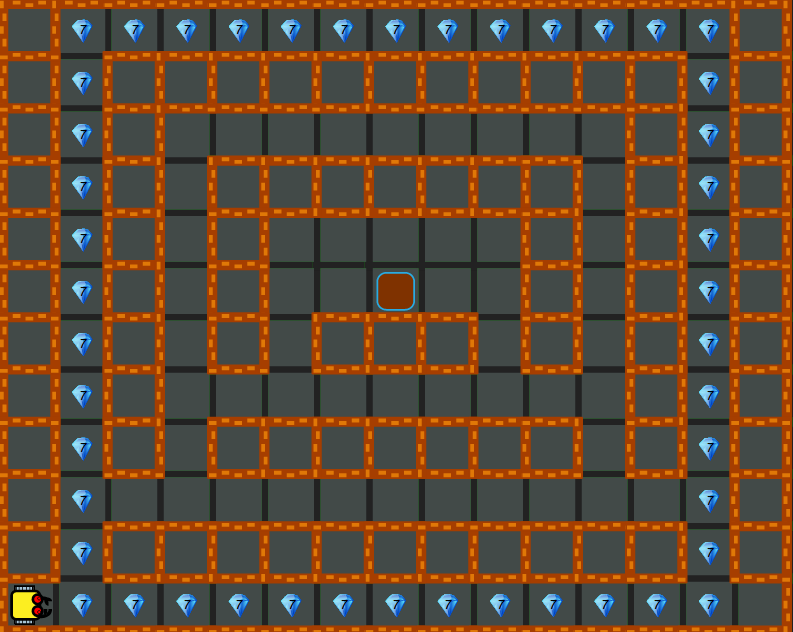
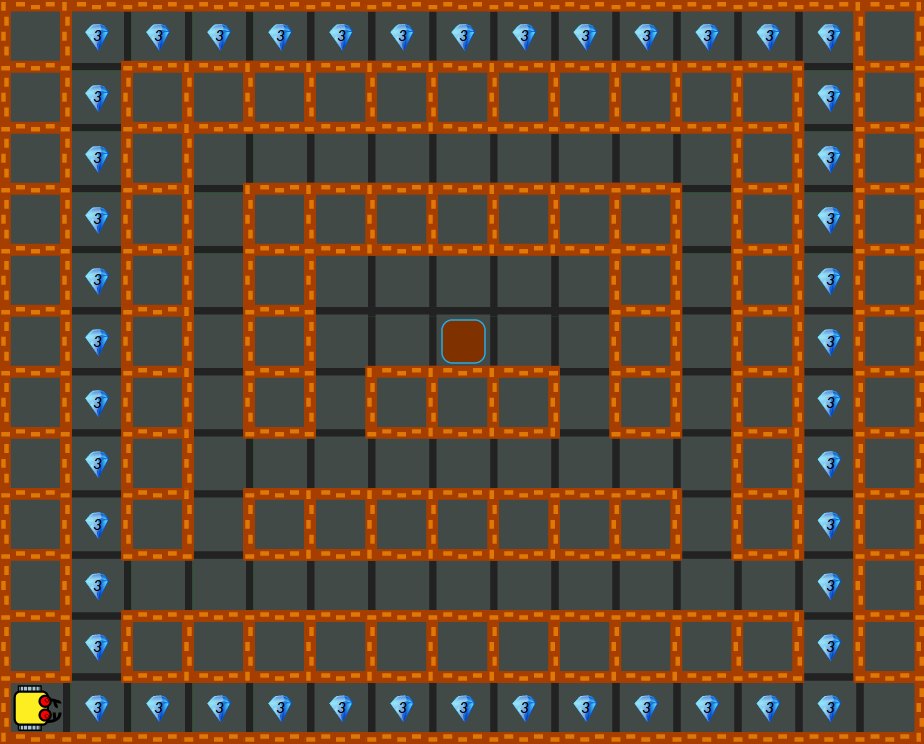
Update

Changed region(s): [[0.0, 0.0, 1.0, 1.0]]

diff --git a/exercises.tex b/exercises.tex
@@ -349,7 +349,7 @@ Go, Left, Right, Put and Get appear, as shown in Fig. \ref{fig:buttons2222}.\\[-
 
 \subsection{Fortress}
 
-{\em This is your final task in Programming Mode 1. Let's finish in style! Karel needs to collect all 322 gems and enter his home square in the heart of the fortress. Your program should not have more than {\bf 20 lines}. You may want to change the robot's speed to Fast in Settings.}\\[-9mm]
+{\em This is your final task in Programming Mode 1. Let's finish in style! Karel needs to collect all 138 gems and enter his home square in the heart of the fortress. Your program should not have more than {\bf 20 lines}. You may want to change the robot's speed to Fast in Settings.}\\[-9mm]
 
 \begin{figure}[!ht]
 \begin{center}
@@ -366,7 +366,7 @@ Go, Left, Right, Put and Get appear, as shown in Fig. \ref{fig:buttons2222}.\\[-
 \setcounter{section}{6}
 \section{Programming Mode 2 - Conditions}
 
-\subsection{Holey pocket}
+\subsection{Holey pocket!}
 
 {\em Because of a hole in his pocket, Karel just lost some gems. They lie at random positions between him and his home which is 10 steps away. Go back and collect all of them quickly! Your program should have at most {\bf four lines}.}\\[-9mm]
 
